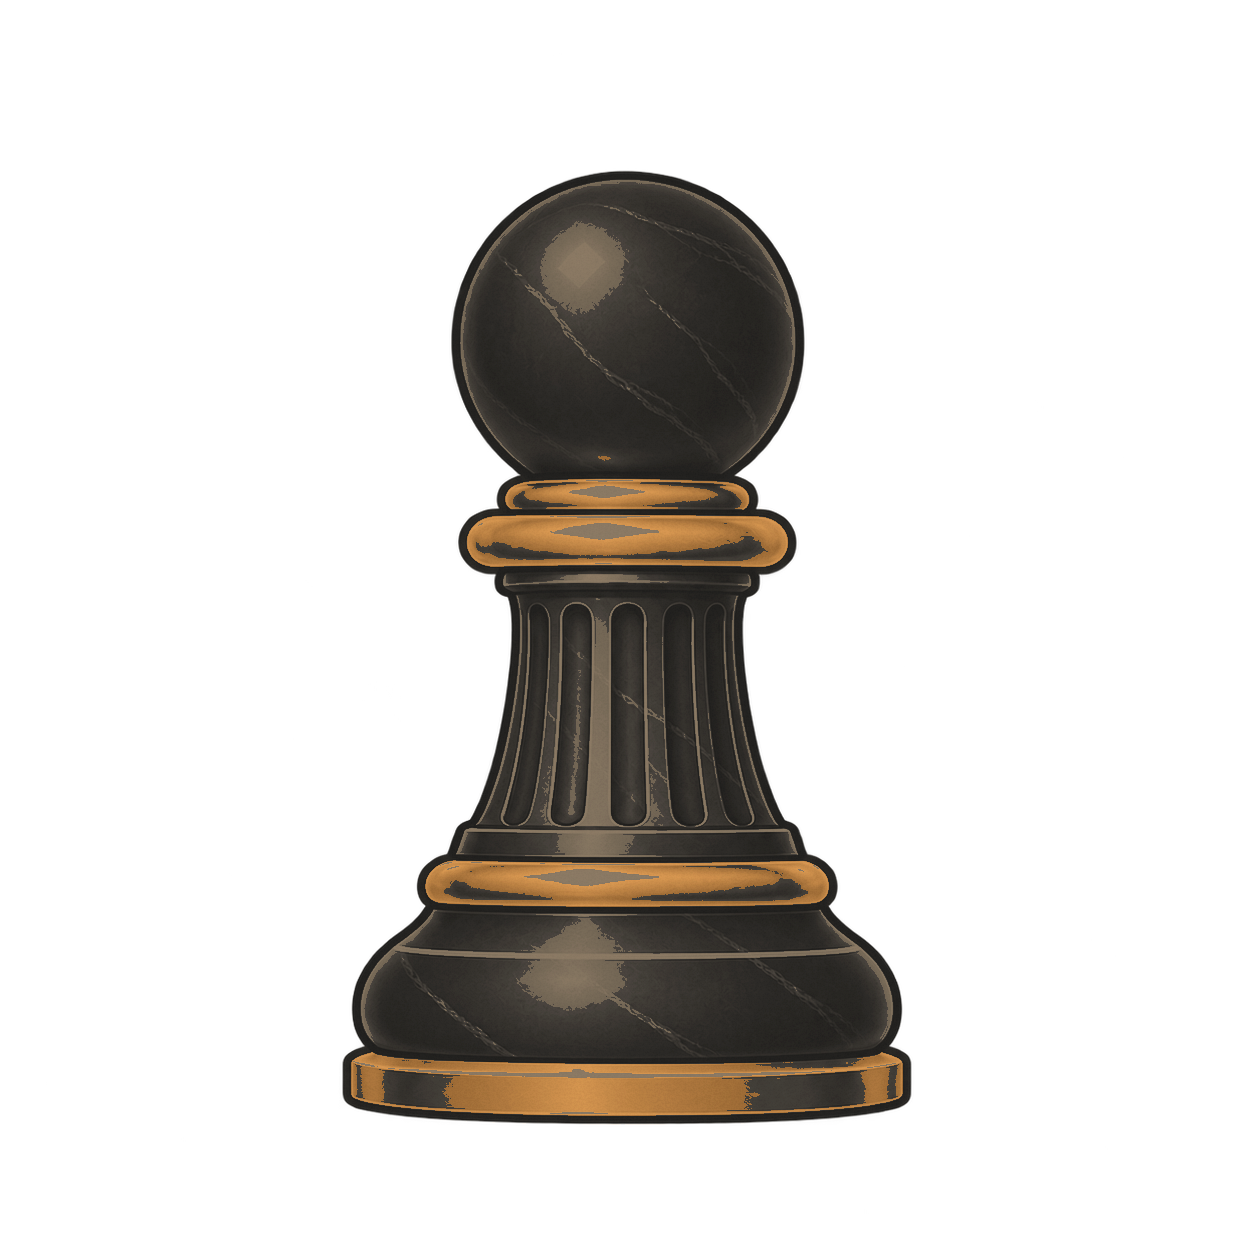
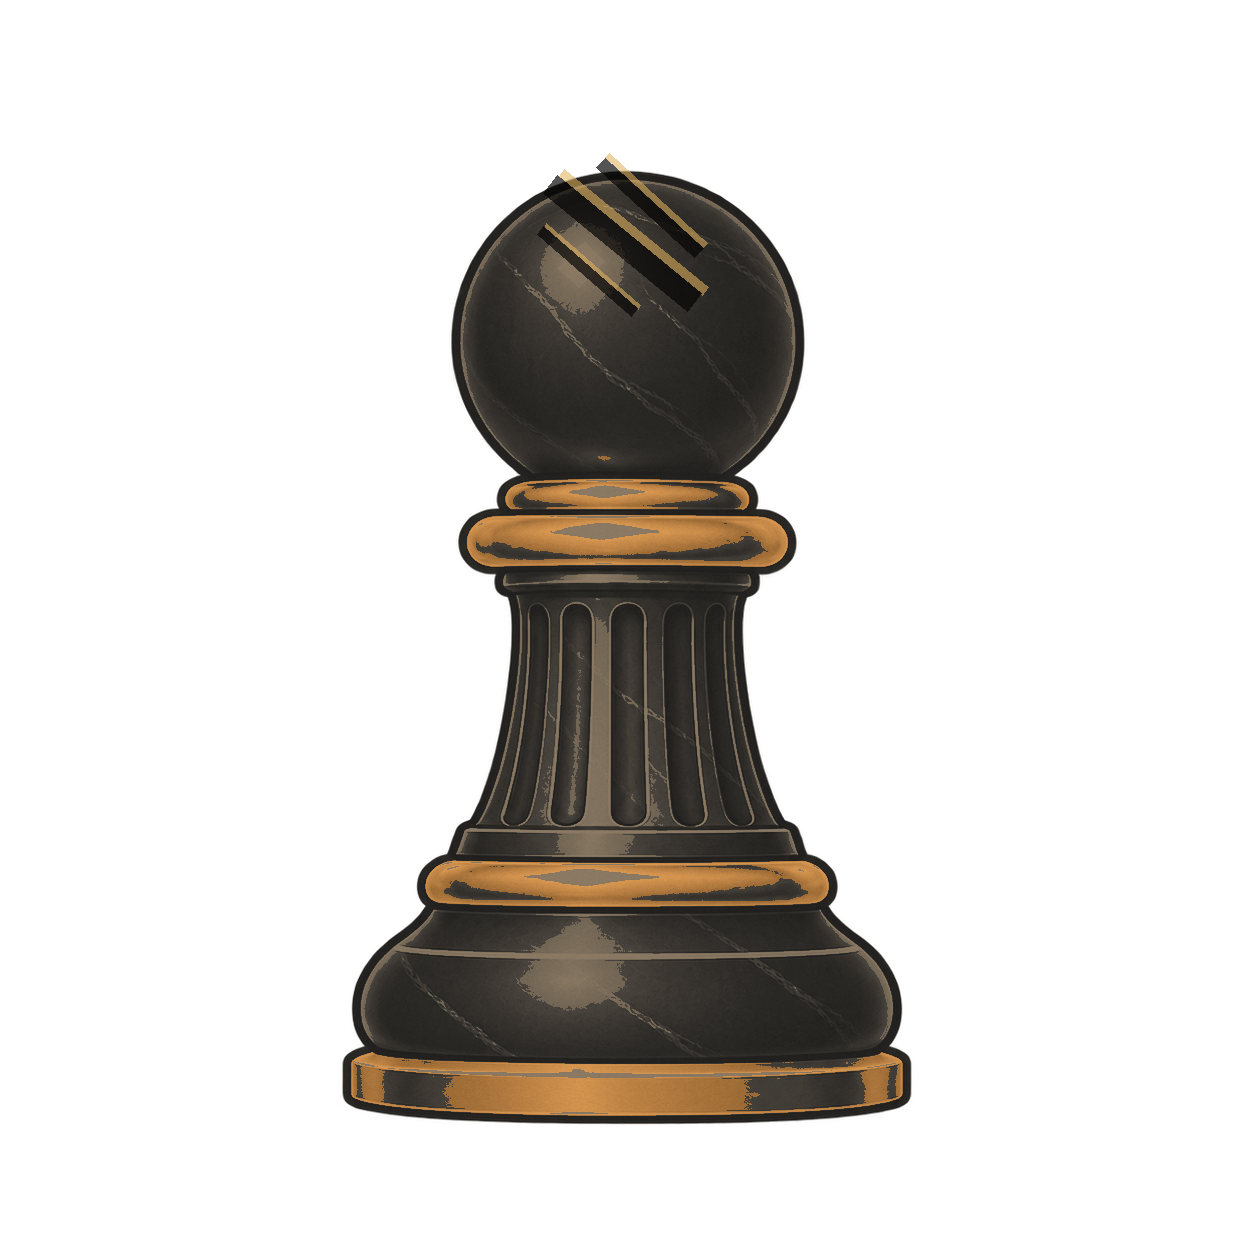
Make sarcastic pawn visually distinct

Changed region(s): [[0.4354, 0.1244, 0.5598, 0.2488]]

diff --git a/index.html b/index.html
@@ -5215,10 +5215,10 @@ const GLADIATOR_PIECE_IMAGES = {
 
 const SARCASTIC_PAWN_IMAGES = {
 
-  wp:"./Graphics/Sarcastic/wP.png",
-  bp:"./Graphics/Sarcastic/bP.png",
-  "wp-gladiator":"./Graphics/Sarcastic/wP-gladiator.png",
-  "bp-gladiator":"./Graphics/Sarcastic/bP-gladiator.png"
+  wp:"./Graphics/Sarcastic/wP.png?v=2",
+  bp:"./Graphics/Sarcastic/bP.png?v=2",
+  "wp-gladiator":"./Graphics/Sarcastic/wP-gladiator.png?v=2",
+  "bp-gladiator":"./Graphics/Sarcastic/bP-gladiator.png?v=2"
 
 };
 
